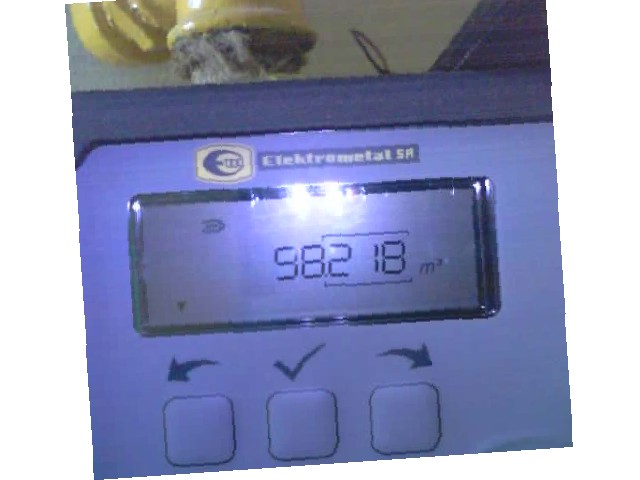
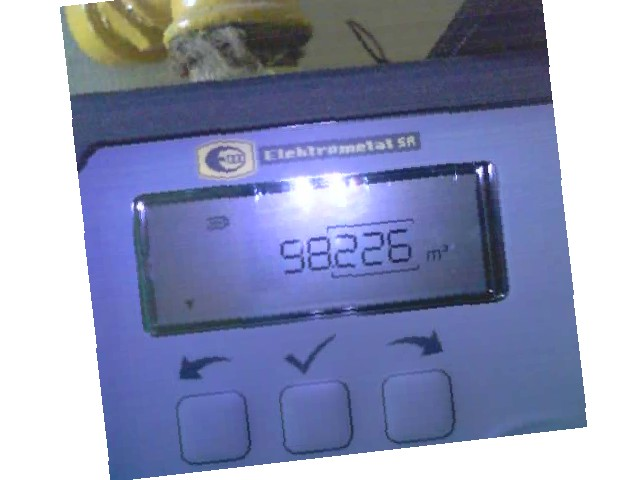
Automatyczna aktualizacja strony i danych

diff --git a/index.html b/index.html
@@ -35,11 +35,11 @@
 <body>
     <div class="container">
         <h1>Bieżący Stan Licznika</h1>
-        <div class="status">Ostatnia aktualizacja danych:<br><span class="timestamp">2026-10-27 13:37:20</span></div>
+        <div class="status">Ostatnia aktualizacja danych:<br><span class="timestamp">2026-10-27 13:42:48</span></div>
         <div class="odczyt">93498 m³</div>
         <div class="uwaga">Ostatni odczyt się nie powiódł, wyświetlana jest poprzednia poprawna wartość.</div>
         <h3>Aktualne zdjęcie z gazomierza:</h3>
-        <img src="img_tmp/alg.jpg?t=1793104640" alt="Zdjęcie licznika">
+        <img src="img_tmp/alg.jpg?t=1793104968" alt="Zdjęcie licznika">
     </div>
 </body>
 </html>
